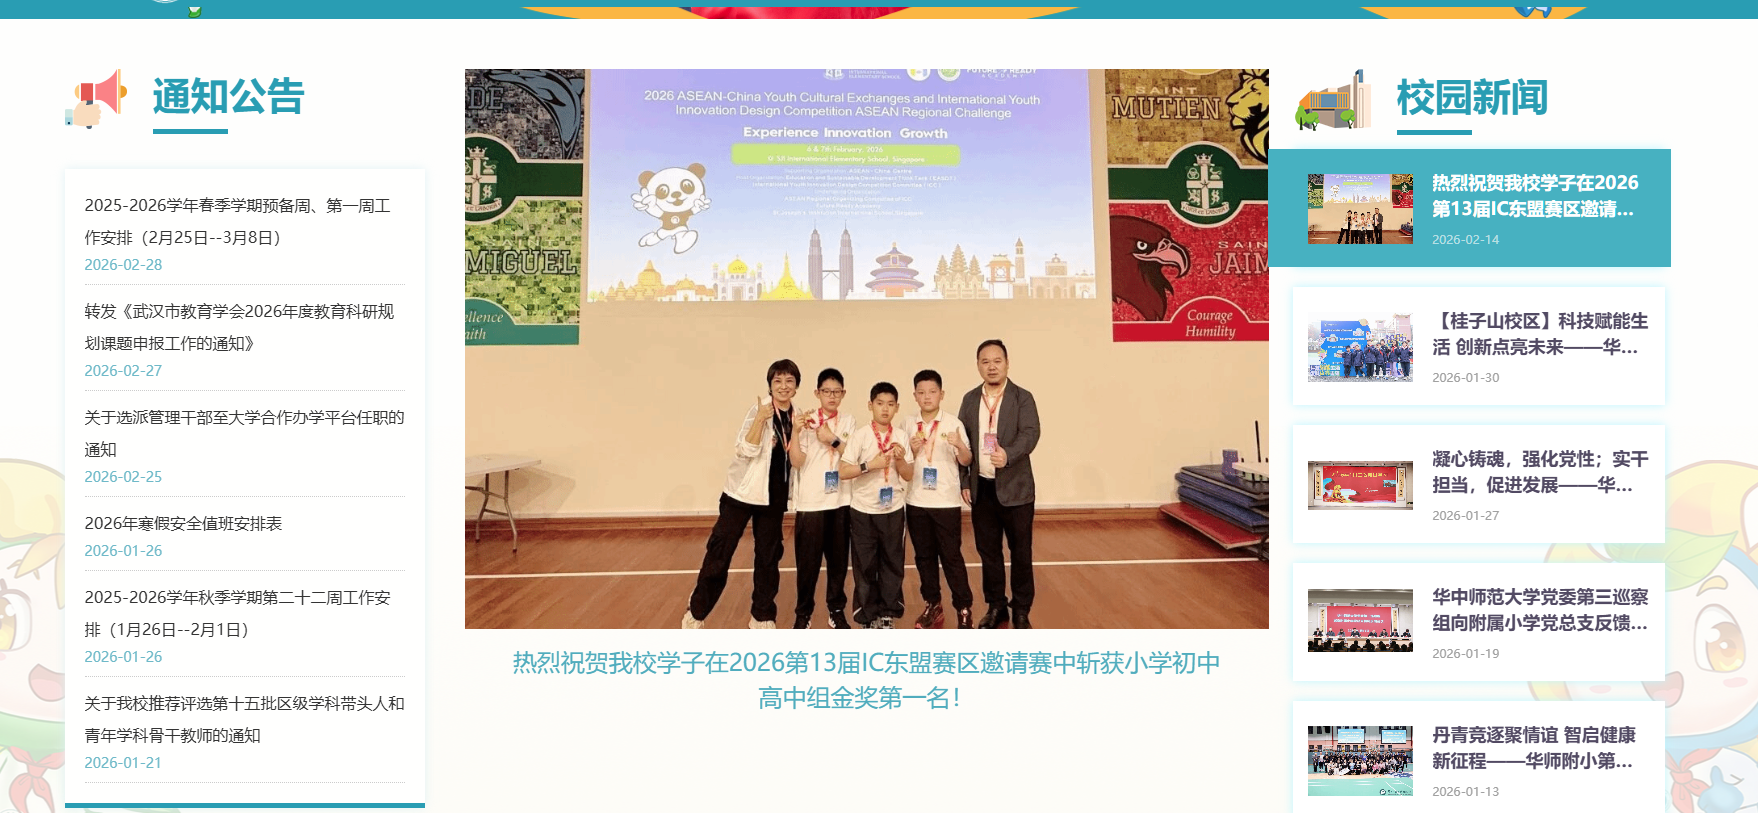
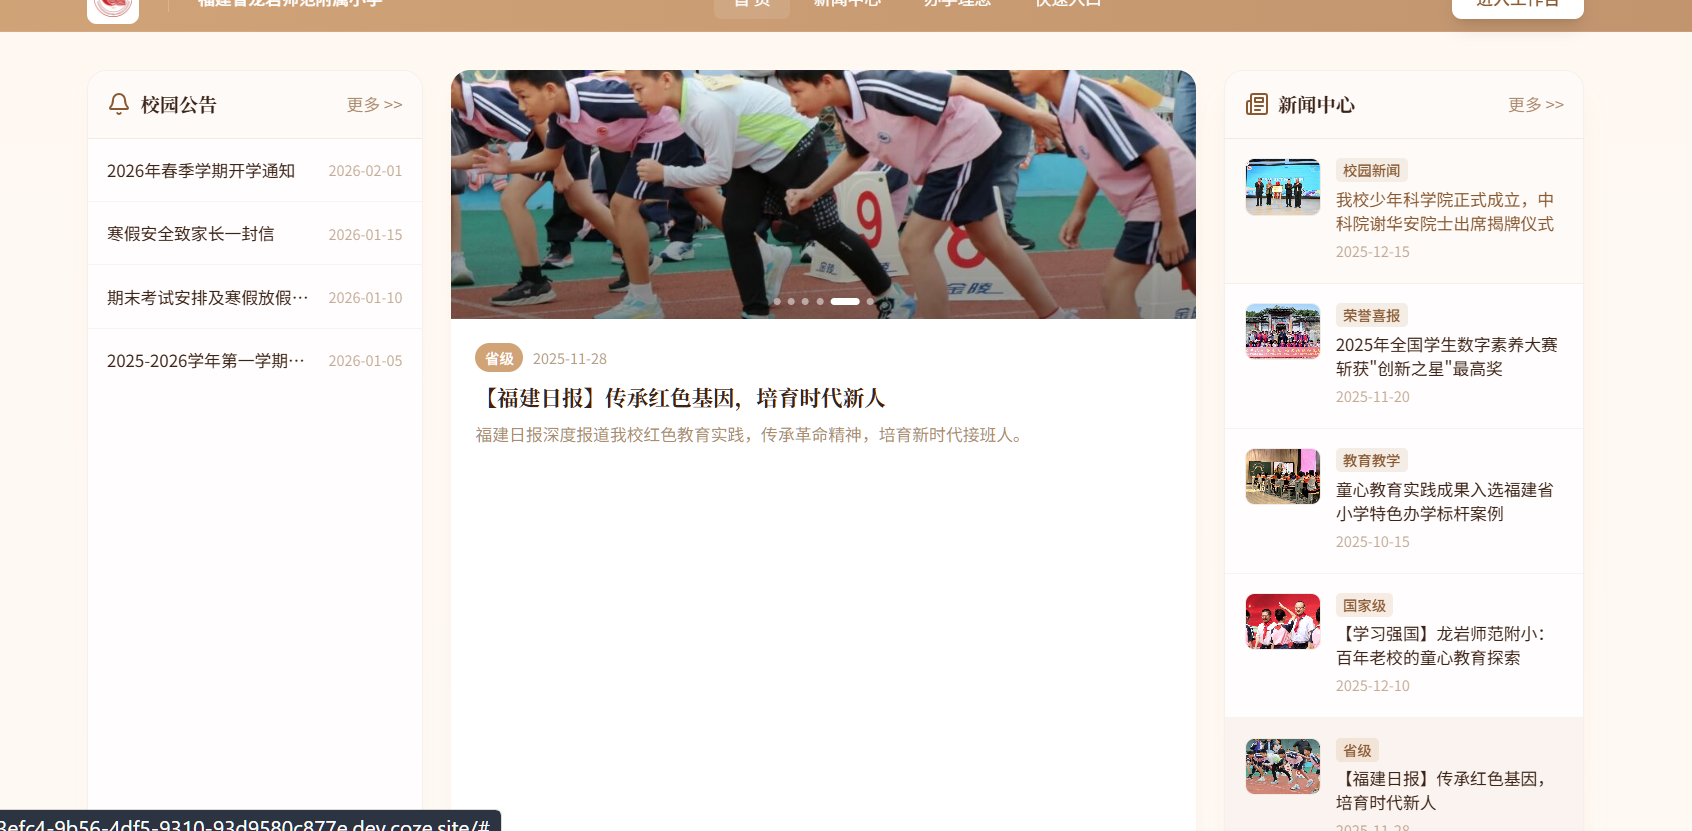
style: 新闻轮播区域优化布局，标题摘要覆盖在图片底部

diff --git a/src/app/page.tsx b/src/app/page.tsx
@@ -390,9 +390,8 @@ export default function HomePage() {
             </div>
 
             {/* 中间：新闻大图轮播 */}
-            <div className="rounded-2xl overflow-hidden shadow-lg shadow-[#D4A574]/10 bg-white">
-              {/* 图片区域 */}
-              <div className="relative h-52">
+            <div className="relative rounded-2xl overflow-hidden shadow-lg shadow-[#D4A574]/10 group cursor-pointer">
+              <div className="relative h-72">
                 {newsItems.map((item, index) => (
                   <div
                     key={index}
@@ -405,7 +404,25 @@ export default function HomePage() {
                       alt={item.title}
                       className="w-full h-full object-cover"
                     />
-                    <div className="absolute inset-0 bg-gradient-to-t from-black/40 to-transparent" />
+                    <div className="absolute inset-0 bg-gradient-to-t from-black/80 via-black/20 to-transparent" />
+                    <div className="absolute bottom-0 left-0 right-0 p-5">
+                      <div className="flex items-center gap-2 mb-2">
+                        <span className={`text-xs px-2 py-1 rounded-full font-medium ${
+                          item.category === '媒体附小' 
+                            ? 'bg-[#D4A574] text-white' 
+                            : 'bg-[#8B5A2B] text-white'
+                        }`}>
+                          {item.category === '媒体附小' ? item.level : item.category}
+                        </span>
+                        <span className="text-xs text-white/70">{item.date}</span>
+                      </div>
+                      <h3 className="text-white font-bold text-lg leading-snug mb-2">
+                        {item.title}
+                      </h3>
+                      <p className="text-white/80 text-sm leading-relaxed line-clamp-2">
+                        {item.summary}
+                      </p>
+                    </div>
                   </div>
                 ))}
                 {/* 轮播指示器 */}
@@ -422,27 +439,6 @@ export default function HomePage() {
                     />
                   ))}
                 </div>
-              </div>
-              {/* 标题+摘要区域 */}
-              <div className="p-5">
-                <div className="flex items-center gap-2 mb-2">
-                  <span className={`text-xs px-2 py-1 rounded-full font-medium ${
-                    newsItems[activeNewsIndex].category === '媒体附小' 
-                      ? 'bg-[#D4A574] text-white' 
-                      : 'bg-[#8B5A2B] text-white'
-                  }`}>
-                    {newsItems[activeNewsIndex].category === '媒体附小' 
-                      ? newsItems[activeNewsIndex].level 
-                      : newsItems[activeNewsIndex].category}
-                  </span>
-                  <span className="text-xs text-[#8B5A2B]/60">{newsItems[activeNewsIndex].date}</span>
-                </div>
-                <h3 className="font-bold text-[#3D2314] text-lg leading-snug mb-2 line-clamp-2 hover:text-[#8B5A2B] cursor-pointer transition">
-                  {newsItems[activeNewsIndex].title}
-                </h3>
-                <p className="text-sm text-[#8B5A2B]/70 leading-relaxed line-clamp-2">
-                  {newsItems[activeNewsIndex].summary}
-                </p>
               </div>
             </div>
 
